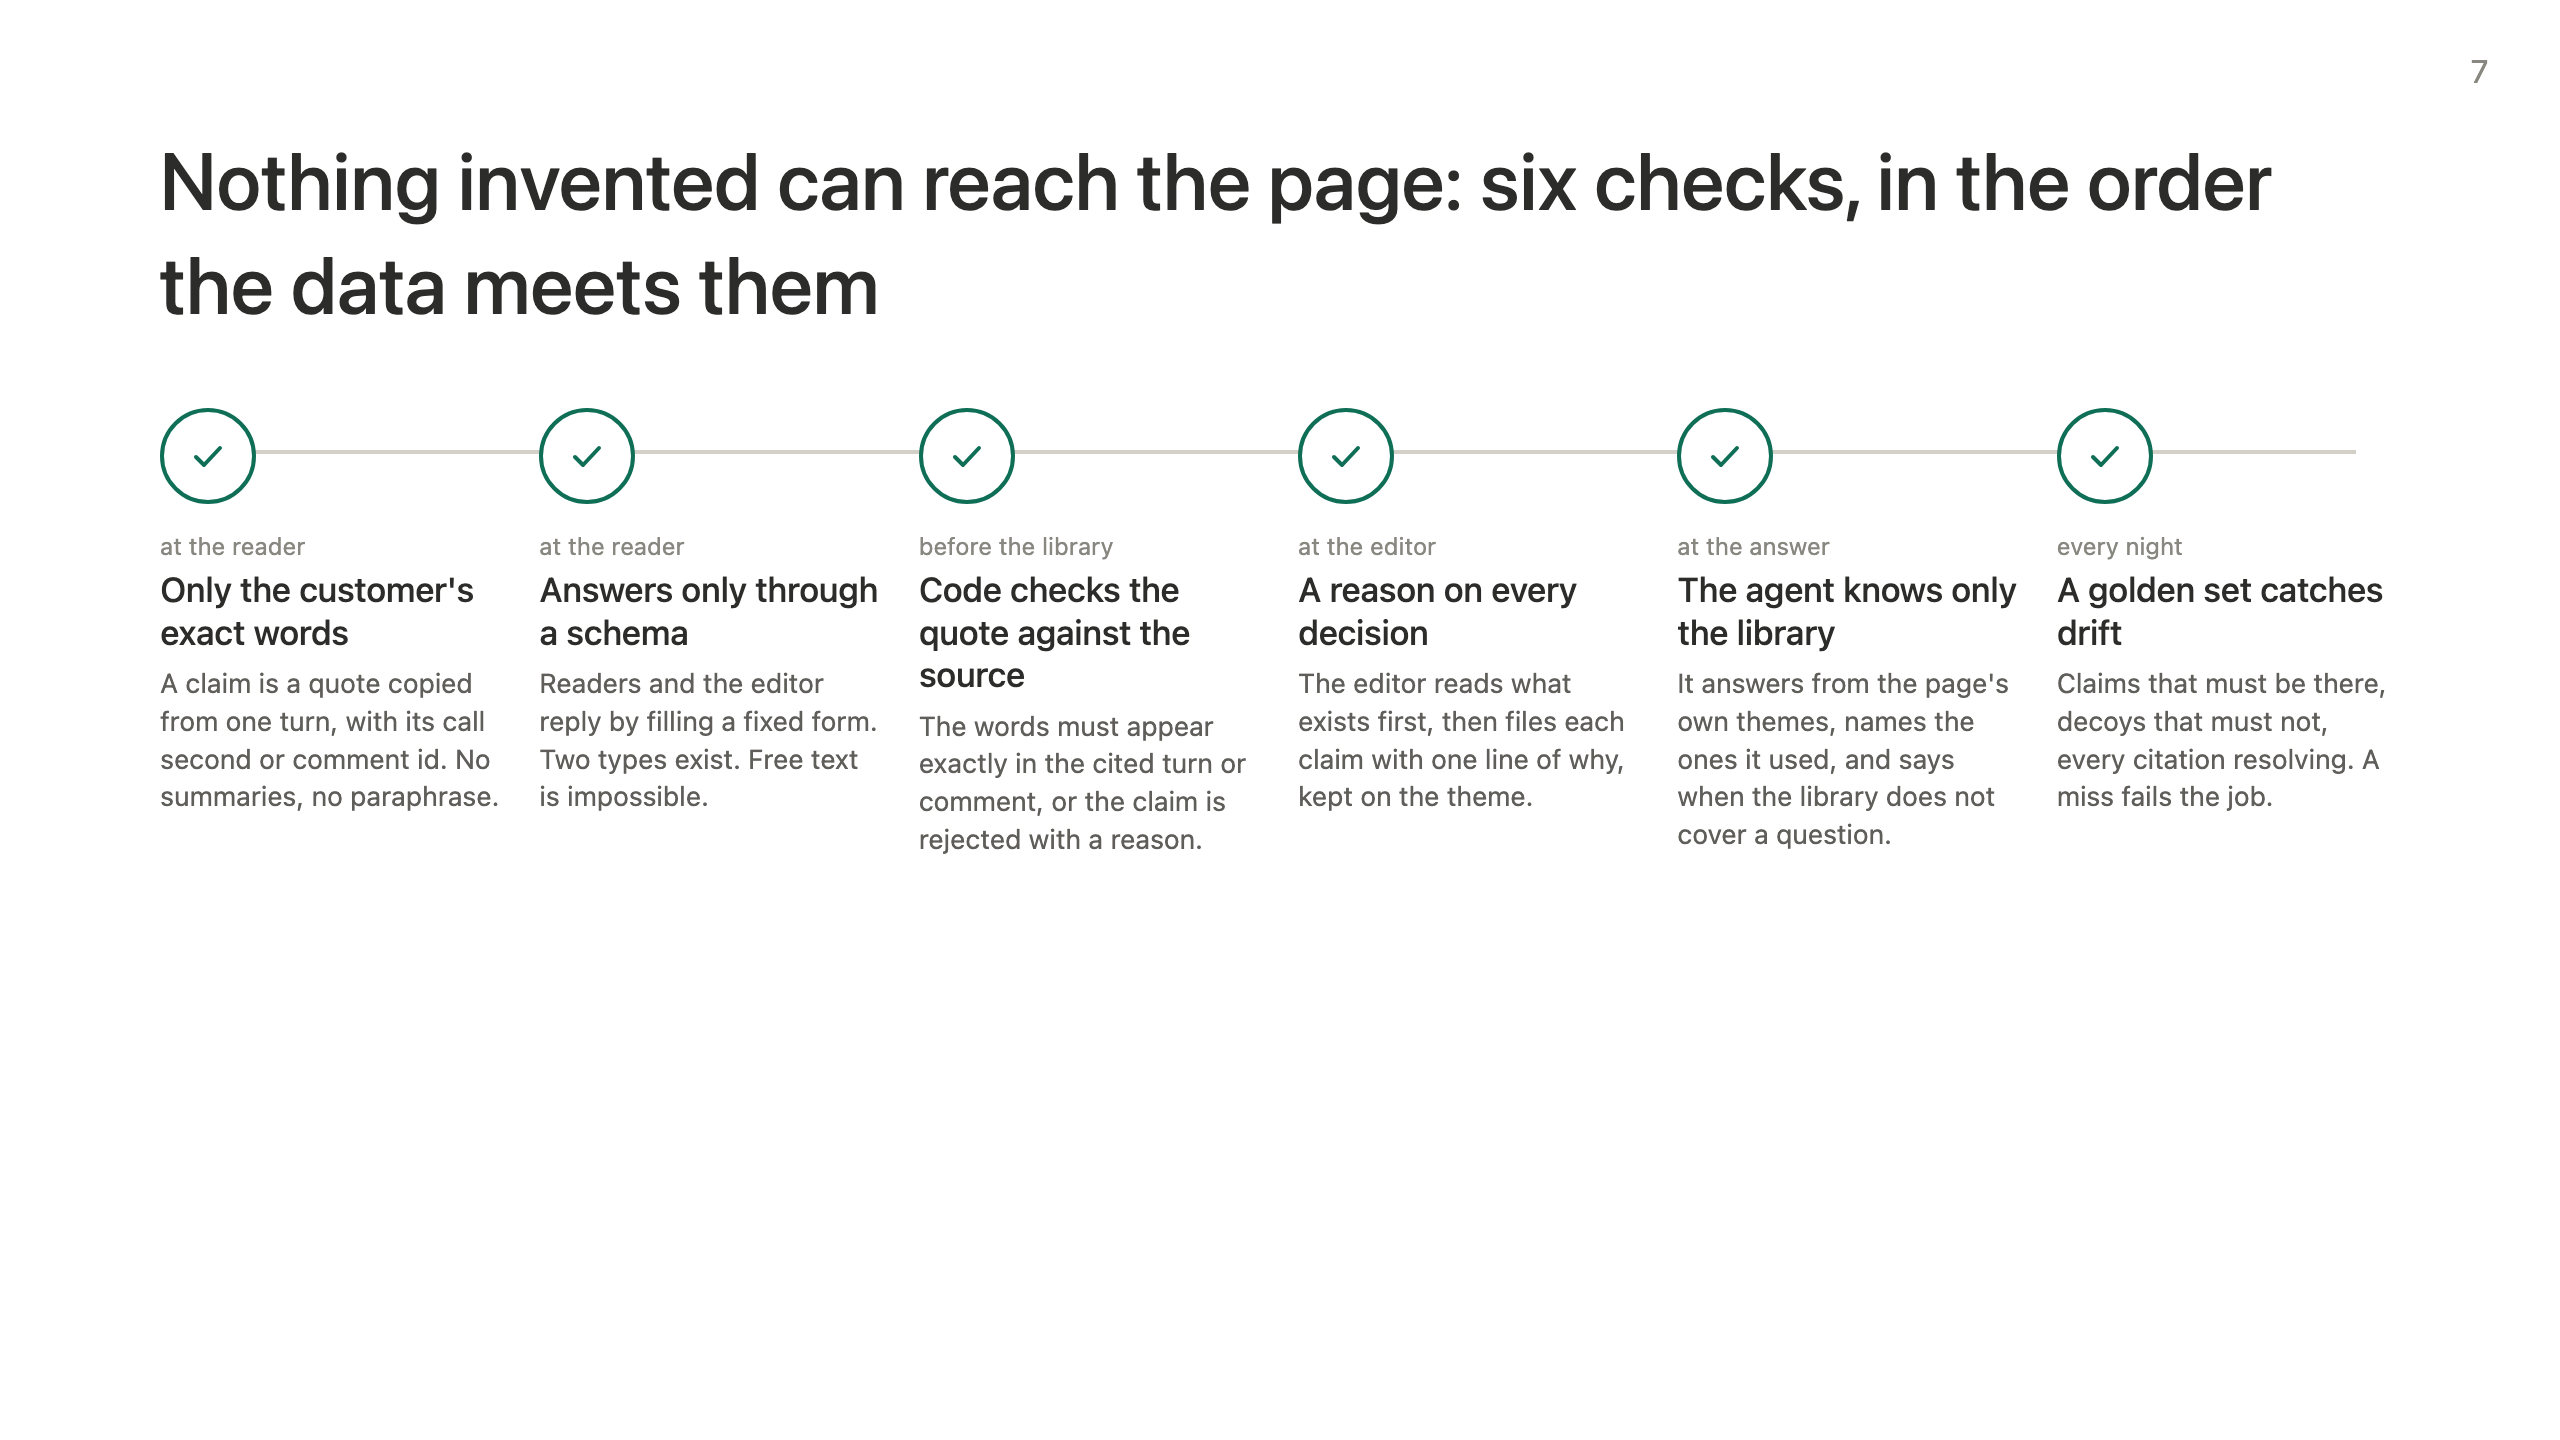
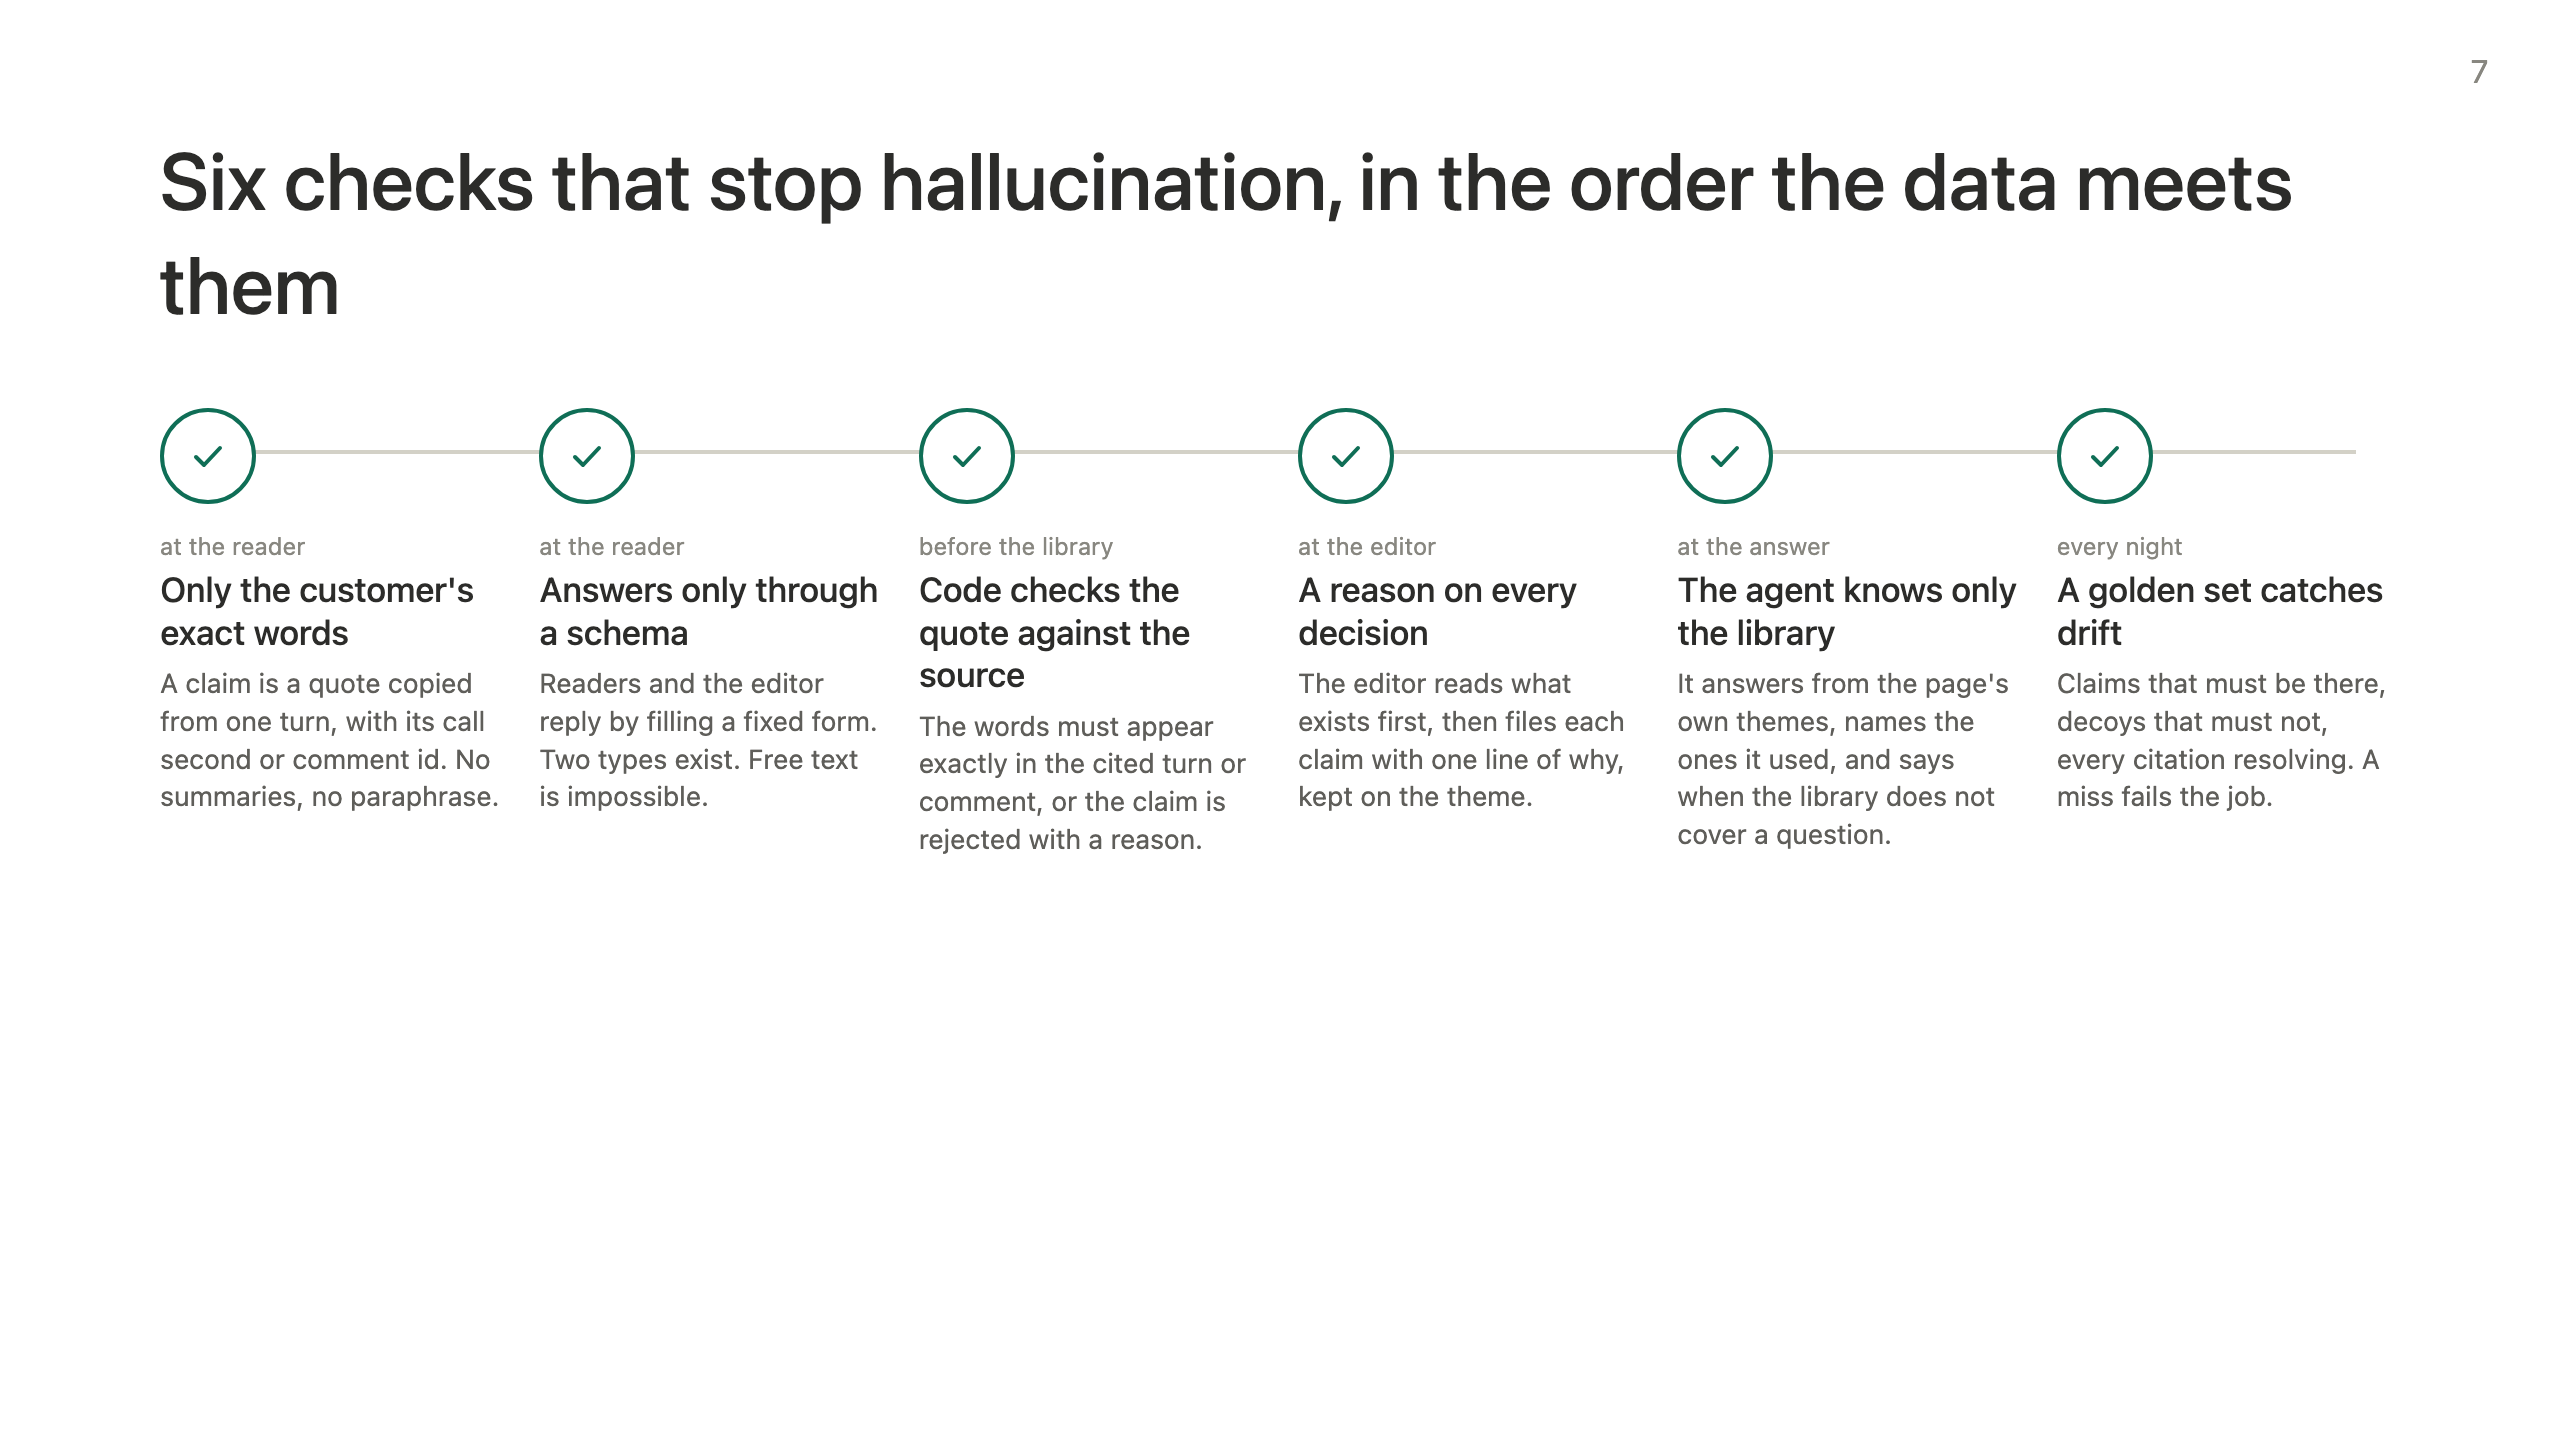
deck: name hallucination in the title of slide 7

Changed region(s): [[0.0625, 0.0938, 0.9062, 0.1562], [0.0938, 0.1875, 0.3438, 0.2188]]

diff --git a/deck/build_pptx.js b/deck/build_pptx.js
@@ -22,7 +22,7 @@ const titles = {
   4:'The whole system: two sources, three agents, one git library, one product team',
   5:'Reader agents turn conversations into records; the editor agent sorts records into themes',
   6:"Ask why a theme matters; the answer comes from the library, with the customer's words",
-  7:'Nothing invented can reach the page: six checks, in the order the data meets them',
+  7:'Six checks that stop hallucination, in the order the data meets them',
   8:'Built to the brief; the next steps are designed, not built',
   9:'Appendix: the decisions behind it',
 };

diff --git a/deck/deck.html b/deck/deck.html
@@ -324,7 +324,7 @@
 <!-- 7 hallucination -->
 <section class="slide" data-n="7">
   <div class="num">7</div>
-  <div class="title">Nothing invented can reach the page: six checks, in the order the data meets them</div>
+  <div class="title">Six checks that stop hallucination, in the order the data meets them</div>
   <div class="body">
   <style>
     .hl{position:relative;margin-top:26px}

diff --git a/README.md b/README.md
@@ -28,7 +28,7 @@ You can also just ask a question, and the answer comes back with the quotes behi
 
 ![the ask agent](deck/png/readme/slide-6.png)
 
-Nothing invented can reach the page. Six checks, in the order the data meets them.
+Six checks that stop hallucination, in the order the data meets them.
 
 ![six checks](deck/png/readme/slide-7.png)
 
